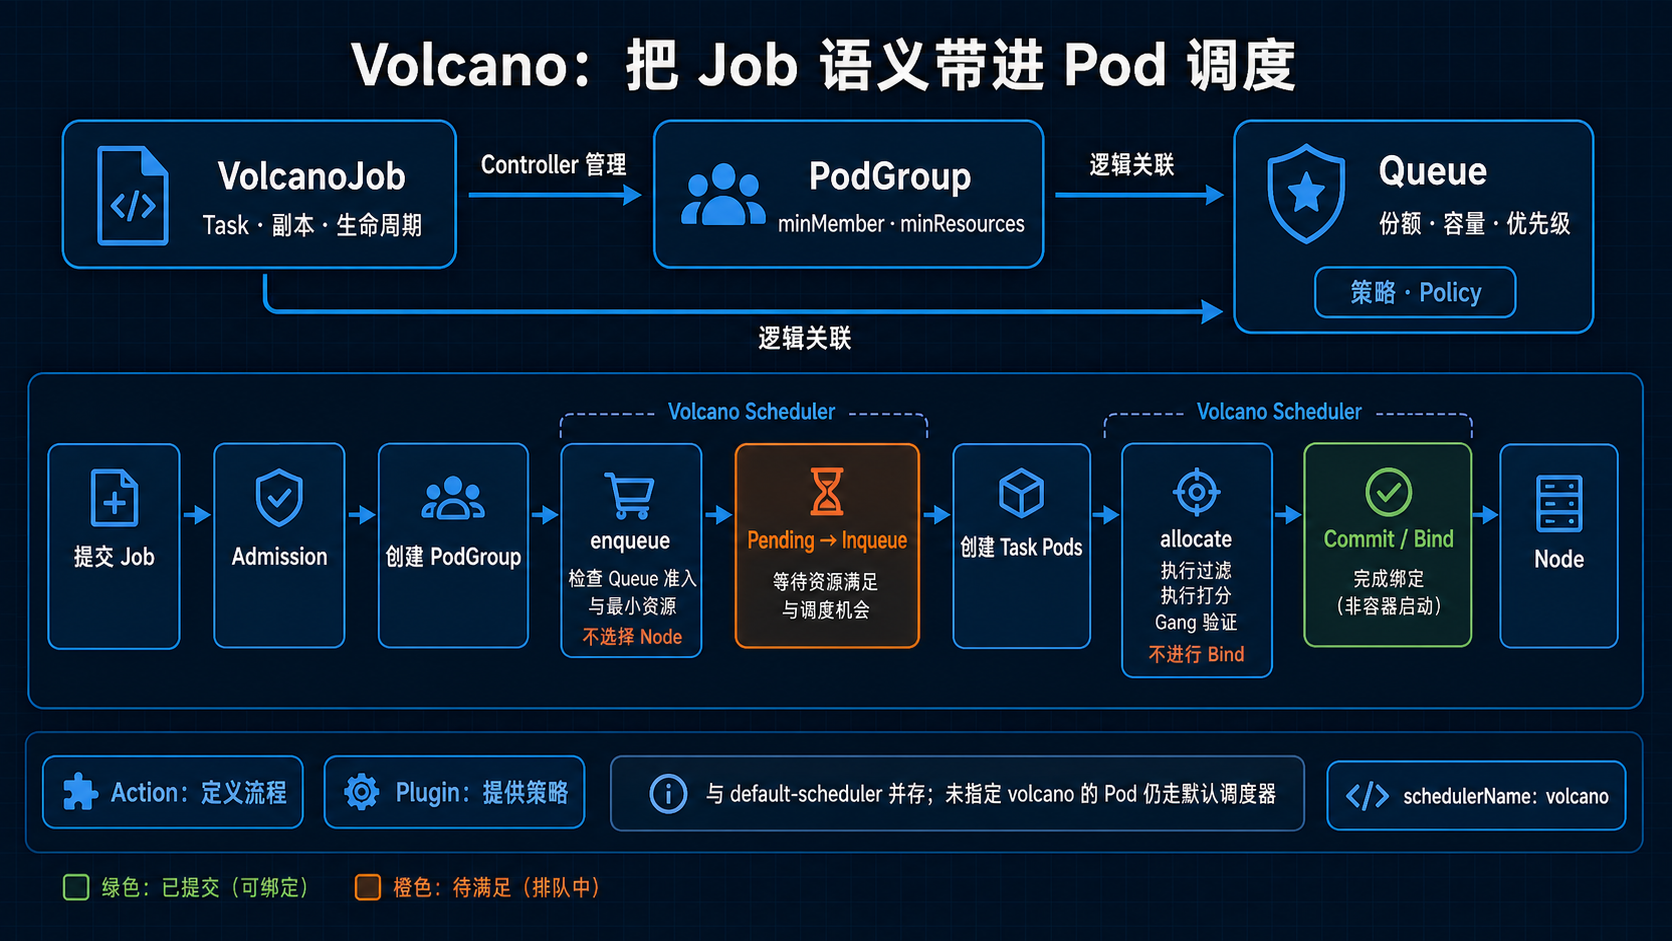
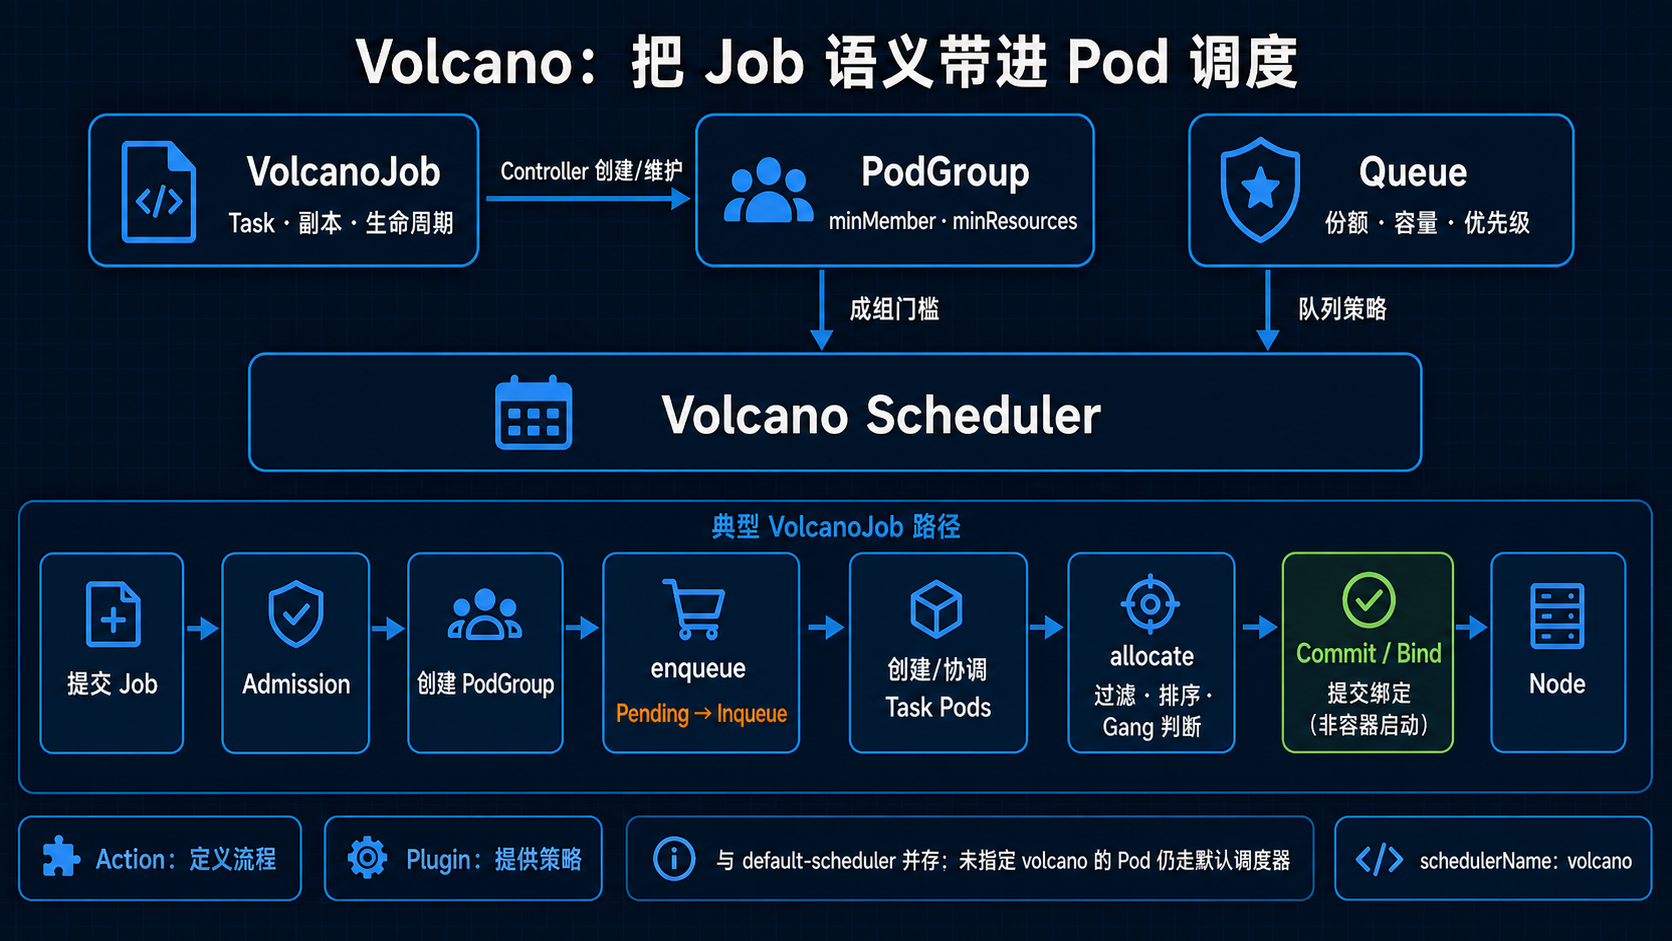
clarify Volcano scheduler flow diagram

Changed region(s): [[0.0, 0.0308, 0.9952, 0.9862], [0.4043, 0.9554, 0.7775, 0.9862]]

diff --git a/一文搞懂 Volcano：Kubernetes 为什么还需要一个 AI 调度器？.md b/一文搞懂 Volcano：Kubernetes 为什么还需要一个 AI 调度器？.md
@@ -188,7 +188,7 @@ Scheduler 执行 allocate，Plugin 提供过滤、排序与 Gang 判断
 
 ![VolcanoJob、PodGroup、Queue 与 Volcano 调度流程](assets/volcano/02-volcano-objects-and-flow.png)
 
-*图 2：VolcanoJob 描述任务，PodGroup 提供成组门槛，Queue 管理资源份额；Controller 与 Scheduler 再把这些 Job 级语义落实到 Pod 绑定。*
+*图 2：VolcanoJob 描述任务并由 Controller 创建/维护 PodGroup；PodGroup 的成组门槛与 Queue 的队列策略并列输入 Scheduler，再由它把这些 Job 级语义落实到 Pod 绑定。*
 
 这里最有特点的是 **Action + Plugin** 模型。
 
